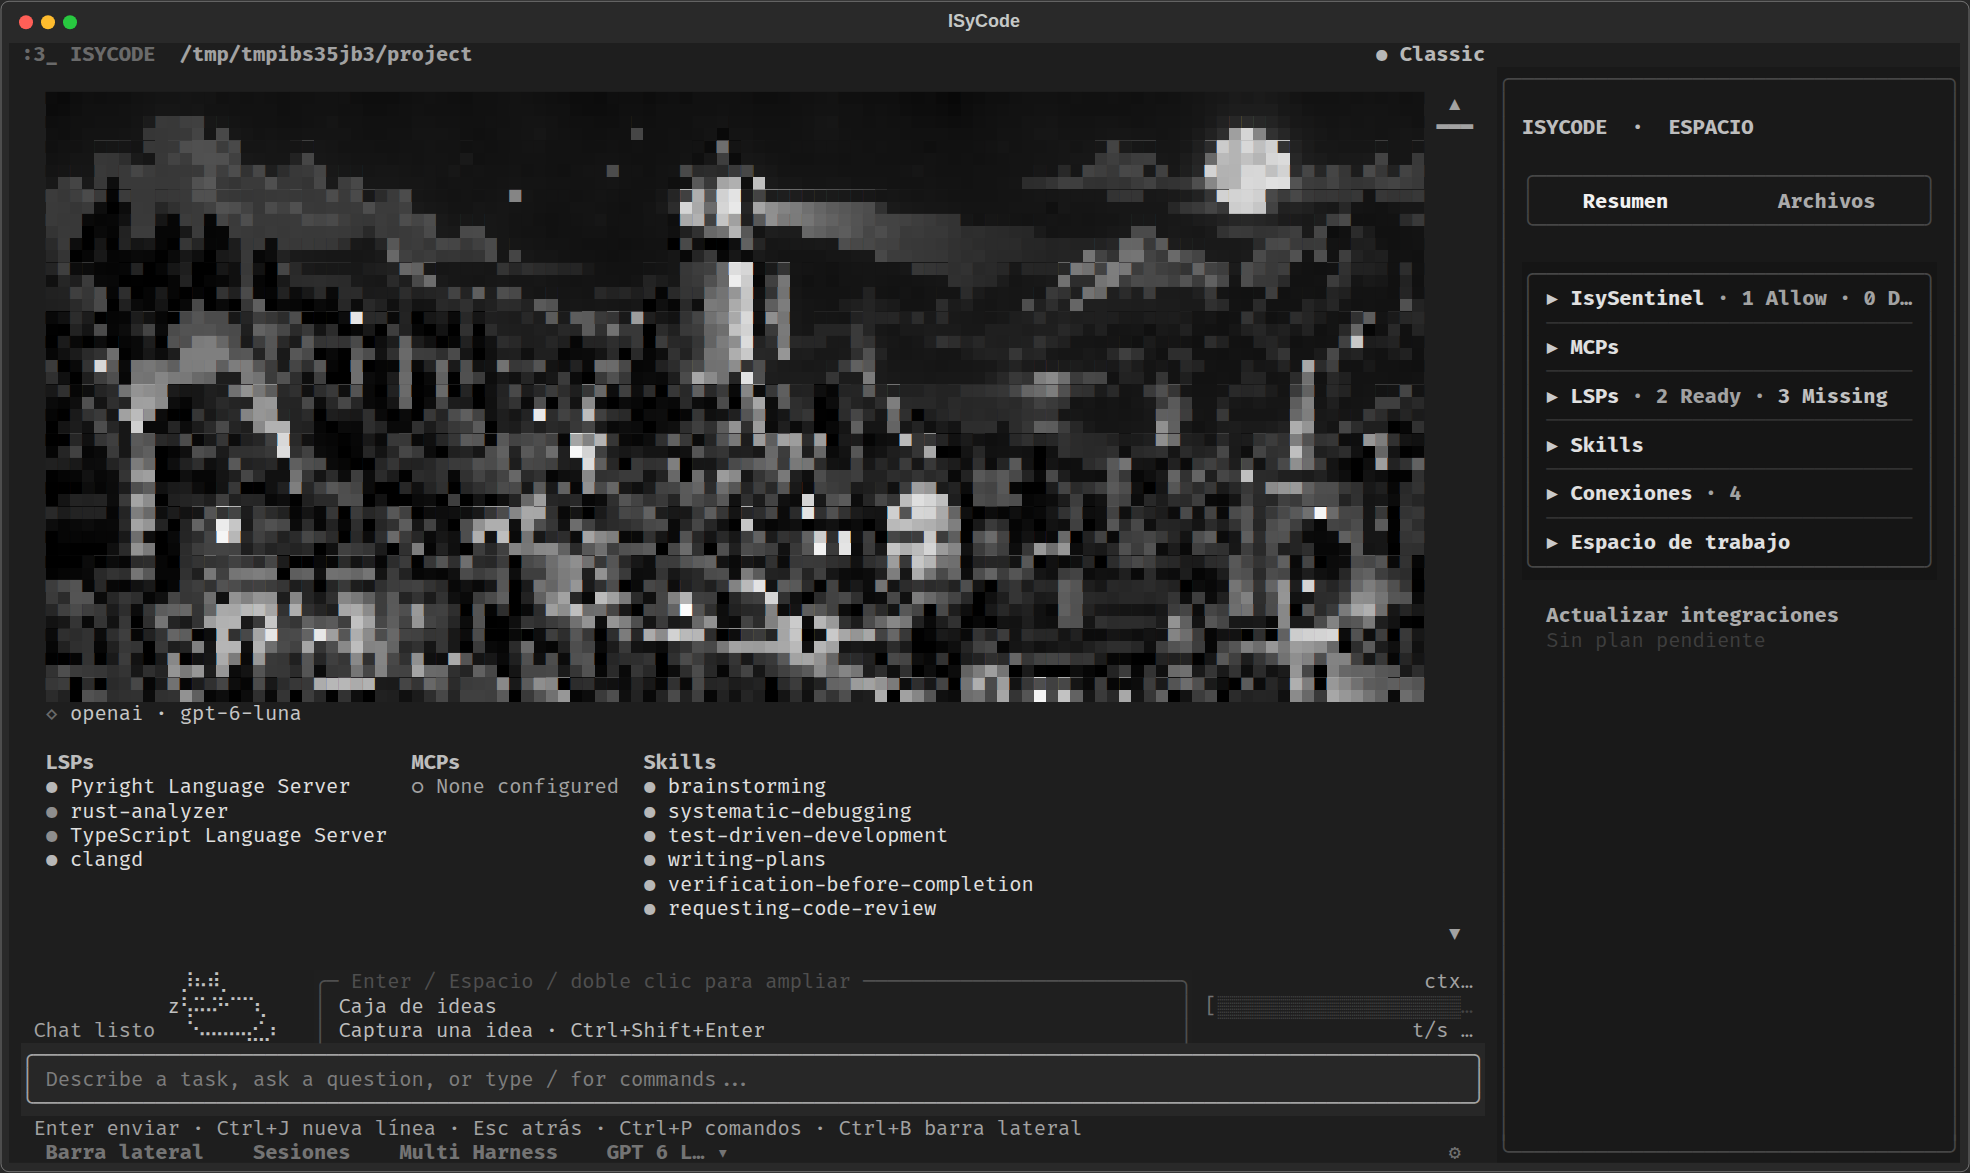
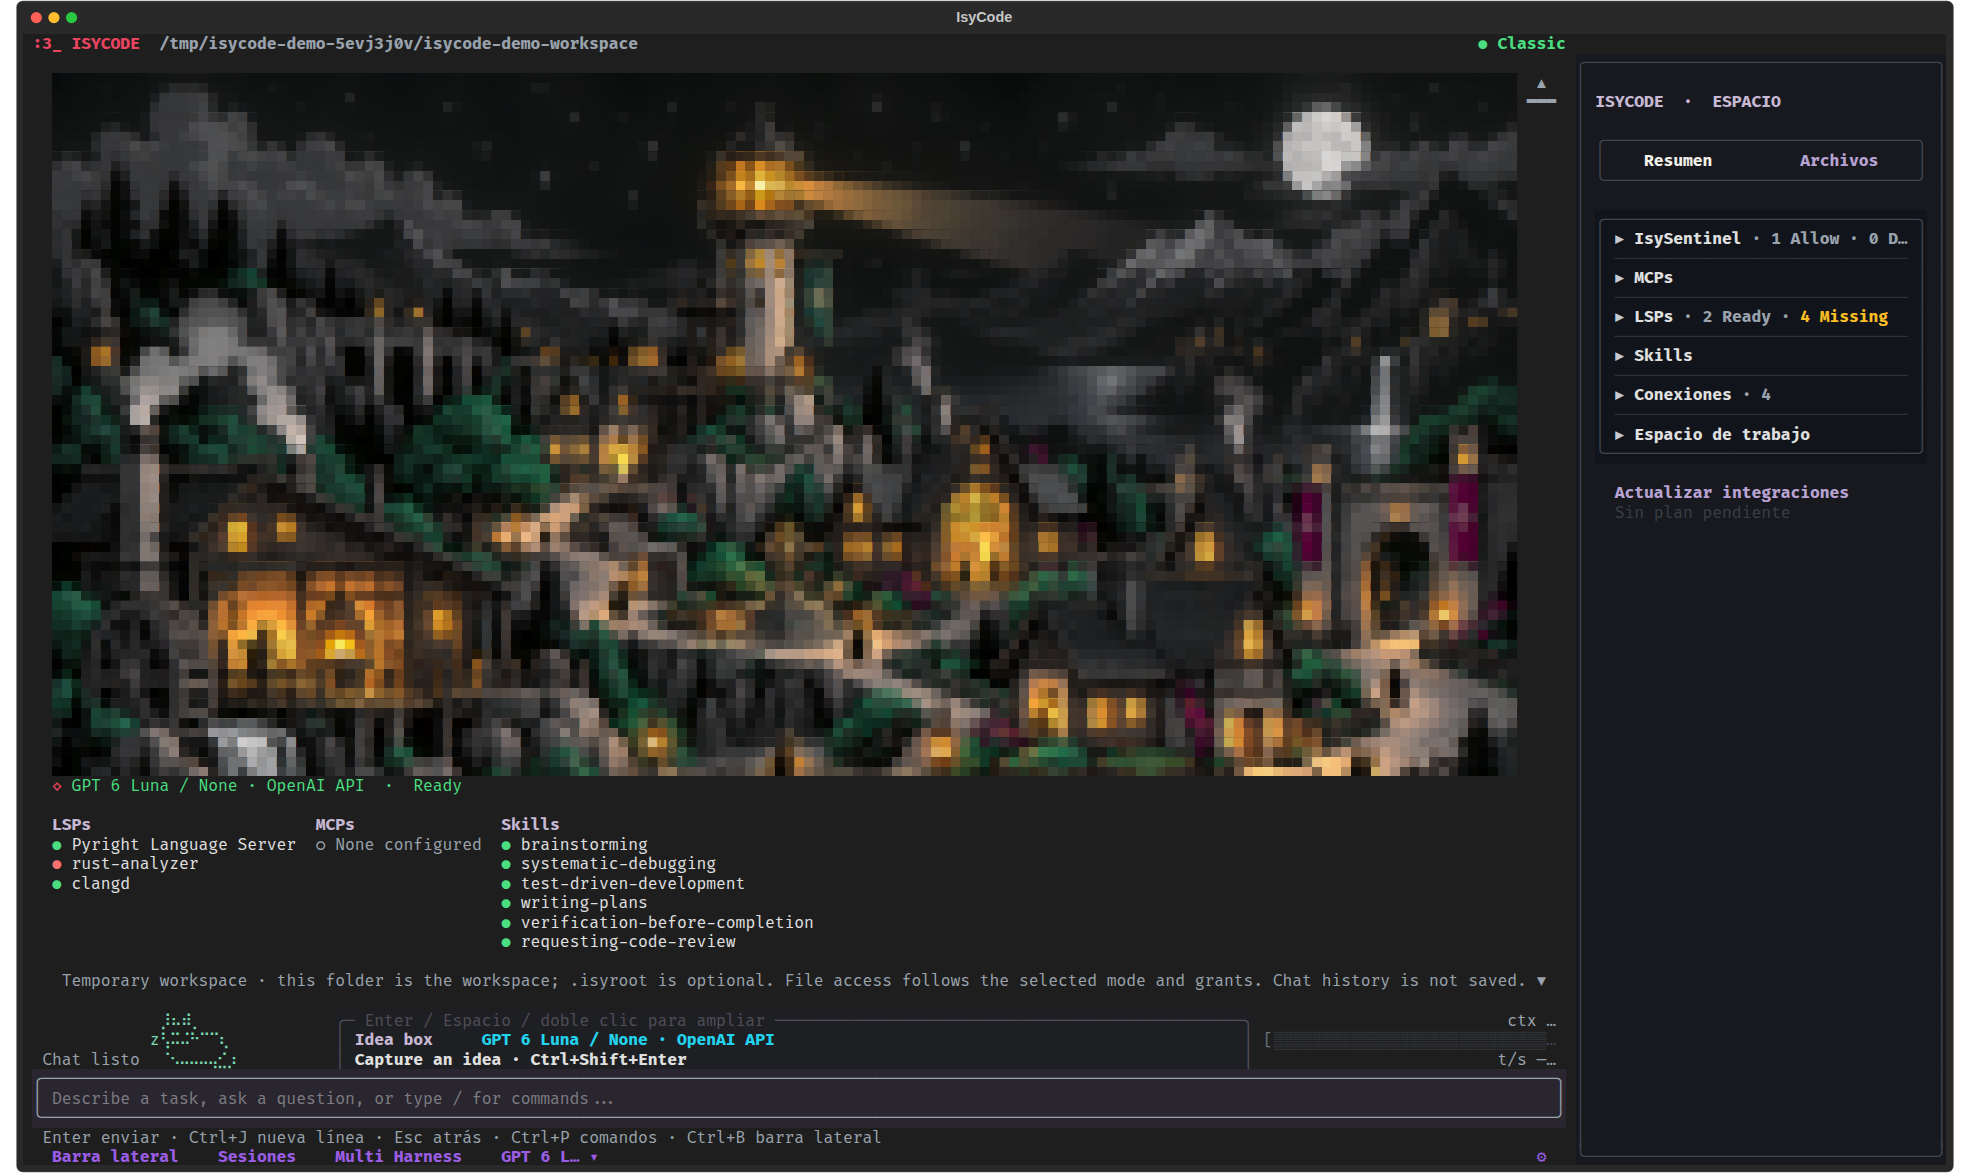
feat(tui): el header del faro promedia su origen en vez de muestrear puntos
El tablero de reposo pinta el paisaje como celdas de medio bloque: una terminal
de 247 columnas dibuja 247x72 pixeles reales. El raster embebido es 1224x816,
asi que cada pixel de salida representa un bloque de ~5x5 del origen.

Con muestreo por puntos (nearest) se conservaba uno de esos 25 y se tiraban los
otros 24. Al reducir la imagen a ese tamano eso es lo que borraba la luna, las
montanas y las nubes y dejaba bordes en dientes de sierra. El promedio de area
usa el bloque completo: es lo que hace legible la escena reducida.

Medido sobre el raster actual (247x36 celdas -> 247x72 px), contra el promedio
exacto del origen: MAE 10,44 con nearest frente a 0,00 con promedio de area.

Cambios:
- `_scaled` promedia siempre (con o sin `cover_top`); `cover_top` solo recorta
  abajo, ya no cambia el filtro.
- Se elimina `_nearest_resize`, que queda sin uso.
- Dos tests en `test_startup_art.py` fijan la calidad: el primero reconstruye
  el muestreo por puntos que habia antes y exige que la tuberia ya no coincida
  con el, y que si coincida con el promedio exacto; el segundo exige que el
  cielo nocturno conserve su gradiente (mas de 12 niveles por fila) en vez de
  colapsarse a unos pocos valores.

Capturas del README regeneradas con este header, porque son lo primero que ve
quien abre el proyecto. No las producia ningun job del CI: se habian generado a
mano. `scripts/capture_readme_screenshots.py` deja el procedimiento escrito:
[…]

diff --git a/scripts/capture_readme_screenshots.py b/scripts/capture_readme_screenshots.py
@@ -1,0 +1,116 @@
+#!/usr/bin/env python3
+"""Render the README screenshots from a real Textual session.
+
+The README shows three PNGs under docs/screenshots/. No CI workflow builds
+them, so this script is the reproducible procedure: it starts the real TUI on a
+throwaway demo workspace with a simulated provider and exports each screen as
+SVG (Textual's own export). Nothing external is called: no provider, no
+Gateway, no MCP tool, no shell command.
+
+Usage:
+  PYTHONPATH=src python3 scripts/capture_readme_screenshots.py --out /tmp/shots
+"""
+
+from __future__ import annotations
+
+import argparse
+import asyncio
+import os
+import tempfile
+from pathlib import Path
+
+
+def _install_demo_environment(root: Path) -> None:
+    os.environ["ISYCODE_STATE_HOME"] = str(root / "state")
+    os.environ["XDG_STATE_HOME"] = str(root / "xdg-state")
+    os.environ["XDG_CONFIG_HOME"] = str(root / "xdg-config")
+    os.environ["ISYCODE_PROVIDER"] = "openai"
+    os.environ["ISYCODE_MODEL"] = "gpt-6-luna"
+    os.environ["OPENAI_API_KEY"] = "test-not-real"
+
+
+async def _capture(out: Path, columns: int, rows: int) -> list[Path]:
+    import isycode.egress as egress
+    import isycode.providers as providers_module
+    from isycode.tui import TUIApp
+    from isycode.user_defaults import UserDefaultsStore
+    from isycode.workspace_authority import WorkspaceAuthority
+    from isycode.workspace_trust import WorkspaceTrust
+
+    providers_module.Provider.models = lambda provider: [provider.model]
+    egress._ips = lambda _host, _port: ("93.184.216.34",)
+
+    async def _no_external(self):
+        return None
+
+    # Only the optional catalog and Gateway probes are suppressed. The model
+    # line is left alone: it reports the configured provider from local state
+    # and never opens a socket, so the screenshot shows the real label.
+    TUIApp._refresh_openisy = _no_external
+    TUIApp._check_gateway_async = _no_external
+
+    original_unmount = TUIApp.on_unmount
+
+    async def _test_unmount(self, event):
+        await original_unmount(self, event)
+        asyncio.get_running_loop().call_later(0.5, lambda: None)
+
+    TUIApp.on_unmount = _test_unmount
+
+    UserDefaultsStore().update(new_workspace="temporary",
+                               new_workspace_mode="classic", locale="es")
+    authority = WorkspaceAuthority(Path.cwd())
+    authority.set_mode("classic")
+    WorkspaceTrust().decline(authority)
+
+    written: list[Path] = []
+
+    def snapshot(app, name: str) -> None:
+        app.title = "IsyCode"
+        app.save_screenshot(str(out / name))
+        written.append(out / name)
+
+    app = TUIApp()
+    async with app.run_test(size=(columns, rows)) as pilot:
+        await pilot.pause()
+        # The rail starts collapsed; the README shows it open on Overview.
+        app.action_toggle_sidebar()
+        await pilot.pause()
+        snapshot(app, "01-overview.svg")
+
+        app.query_one("#show-files").press()
+        await pilot.pause()
+        snapshot(app, "02-files.svg")
+
+        app._open_settings_menu()
+        await pilot.pause()
+        snapshot(app, "03-settings.svg")
+    return written
+
+
+def main() -> int:
+    parser = argparse.ArgumentParser(description=__doc__)
+    parser.add_argument("--out", type=Path, required=True)
+    parser.add_argument("--columns", type=int, default=197)
+    parser.add_argument("--rows", type=int, default=58)
+    args = parser.parse_args()
+    args.out.mkdir(parents=True, exist_ok=True)
+
+    with tempfile.TemporaryDirectory(prefix="isycode-demo-") as tmp:
+        project = Path(tmp) / "isycode-demo-workspace"
+        project.mkdir()
+        _install_demo_environment(Path(tmp))
+        previous = Path.cwd()
+        os.chdir(project)
+        try:
+            written = asyncio.run(_capture(args.out, args.columns, args.rows))
+        finally:
+            os.chdir(previous)
+
+    for path in written:
+        print(f"wrote {path}")
+    return 0
+
+
+if __name__ == "__main__":
+    raise SystemExit(main())

diff --git a/tests/test_startup_art.py b/tests/test_startup_art.py
@@ -37,3 +37,68 @@ def test_small_terminal_keeps_text_fallback():
     lines = render_landscape(24).plain.splitlines()
     assert all(cell_len(line) == 24 for line in lines)
     assert any('ISYCODE' in line for line in lines)
+
+
+def _point_sample_frame(columns, rows, cover_top=True):
+    """Rebuild what point sampling used to produce, for the regression below.
+
+    Kept as a local helper so the test states the old behaviour explicitly
+    instead of depending on a deleted private function.
+    """
+    from isycode.terminal_art import load_raster
+    width, height, rgb = load_raster(str(RASTER_PATH))
+    if cover_top:
+        height = min(height, max(1, round(width * rows * 2 / columns)))
+        rgb = rgb[:width * height * 3]
+    out_height, out_width = rows * 2, columns
+    result = bytearray(out_width * out_height * 3)
+    for out_y in range(out_height):
+        source_y = min(height - 1, out_y * height // out_height)
+        row = source_y * width
+        for out_x in range(out_width):
+            source_x = min(width - 1, out_x * width // out_width)
+            start = (row + source_x) * 3
+            dest = (out_y * out_width + out_x) * 3
+            result[dest:dest + 3] = rgb[start:start + 3]
+    return bytes(result)
+
+
+def test_header_averages_its_source_instead_of_point_sampling():
+    """Audit 2026-10-09: point sampling destroyed the scene at header size.
+
+    The header grid is far smaller than the source raster, so keeping one
+    pixel per cell threw the rest away and left the mountains, the clouds and
+    the moon as hard, aliased blocks. Averaging the block behind each cell is
+    what makes the reduced image legible.
+    """
+    columns, rows, pixels = sample_half_cells(RASTER_PATH, 247, 36, cover_top=True)
+    old = _point_sample_frame(columns, rows)
+
+    def difference(candidate):
+        return sum(abs(a - b) for a, b in zip(candidate, old)) / len(old)
+
+    # The pipeline must no longer agree with point sampling.
+    assert difference(pixels) > 5.0
+
+    # And it must sit much closer to the true local average of the source.
+    from isycode.terminal_art import _box_resize, load_raster
+    width, height, rgb = load_raster(str(RASTER_PATH))
+    crop_h = min(height, max(1, round(width * rows * 2 / columns)))
+    exact = _box_resize(width, crop_h, rgb[:width * crop_h * 3], columns, rows * 2)
+    assert pixels == exact
+    assert difference(exact) > 5.0
+
+
+def test_reduced_header_keeps_smooth_gradients_in_the_sky():
+    """Averaging must not collapse the dark sky into one flat value band."""
+    columns, rows, pixels = sample_half_cells(RASTER_PATH, 247, 36, cover_top=True)
+
+    def values(y):
+        start = (y * columns) * 3
+        return [pixels[start + x * 3] for x in range(columns)]
+
+    # The top rows are night sky: averaging must preserve many distinct levels
+    # instead of snapping them to a handful of point-sampled values.
+    for y in (0, 1, 2):
+        levels = len(set(values(y)))
+        assert levels > 12, f"sky row {y} lost its gradient ({levels} levels)"

diff --git a/src/isycode/terminal_art.py b/src/isycode/terminal_art.py
@@ -49,24 +49,14 @@ def fit_cells(width: int, height: int, max_columns: int, max_rows: int) -> tuple
     return columns, rows
 
 
-def _nearest_resize(width: int, height: int, rgb: bytes,
-                    out_width: int, out_height: int) -> bytes:
-    """Sample one source pixel per cell so pixel art keeps its hard edges."""
-    result = bytearray(out_width * out_height * 3)
-    for out_y in range(out_height):
-        source_y = min(height - 1, out_y * height // out_height)
-        row = source_y * width
-        for out_x in range(out_width):
-            source_x = min(width - 1, out_x * width // out_width)
-            start = (row + source_x) * 3
-            dest = (out_y * out_width + out_x) * 3
-            result[dest:dest + 3] = rgb[start:start + 3]
-    return bytes(result)
-
-
 def _box_resize(width: int, height: int, rgb: bytes,
                 out_width: int, out_height: int) -> bytes:
-    """Average source pixels into each terminal half-cell pixel."""
+    """Average the source block behind each terminal half-cell pixel.
+
+    This is the only resampler the module keeps: the header grid is always much
+    smaller than its source, so point sampling would throw away most of the
+    image instead of shrinking it.
+    """
     result = bytearray(out_width * out_height * 3)
     for out_y in range(out_height):
         y0 = out_y * height // out_height
@@ -89,12 +79,21 @@ def _box_resize(width: int, height: int, rgb: bytes,
 
 @lru_cache(maxsize=16)
 def _scaled(path: str, columns: int, rows: int, cover_top: bool = False) -> bytes:
+    """Area-average the source into the half-cell grid.
+
+    The target grid is small (a 247-column terminal paints 247x72 pixels, one
+    per half cell), so every output pixel stands for a whole block of source
+    pixels. Point sampling keeps one of them and discards the rest, which ate
+    the moon, the mountains and the clouds into hard aliased edges. Averaging
+    the block uses all of them and is what makes the scene legible once it is
+    that small. ``cover_top`` only trims the bottom; it no longer changes the
+    filter.
+    """
     width, height, rgb = load_raster(path)
     if cover_top:
-        # Keep the lighthouse and moon, crop the bottom, and do not blend pixels.
+        # Keep the lighthouse and moon: crop the bottom, then resample.
         height = min(height, max(1, round(width * rows * 2 / columns)))
         rgb = rgb[:width * height * 3]
-        return _nearest_resize(width, height, rgb, columns, rows * 2)
     return _box_resize(width, height, rgb, columns, rows * 2)
 
 
